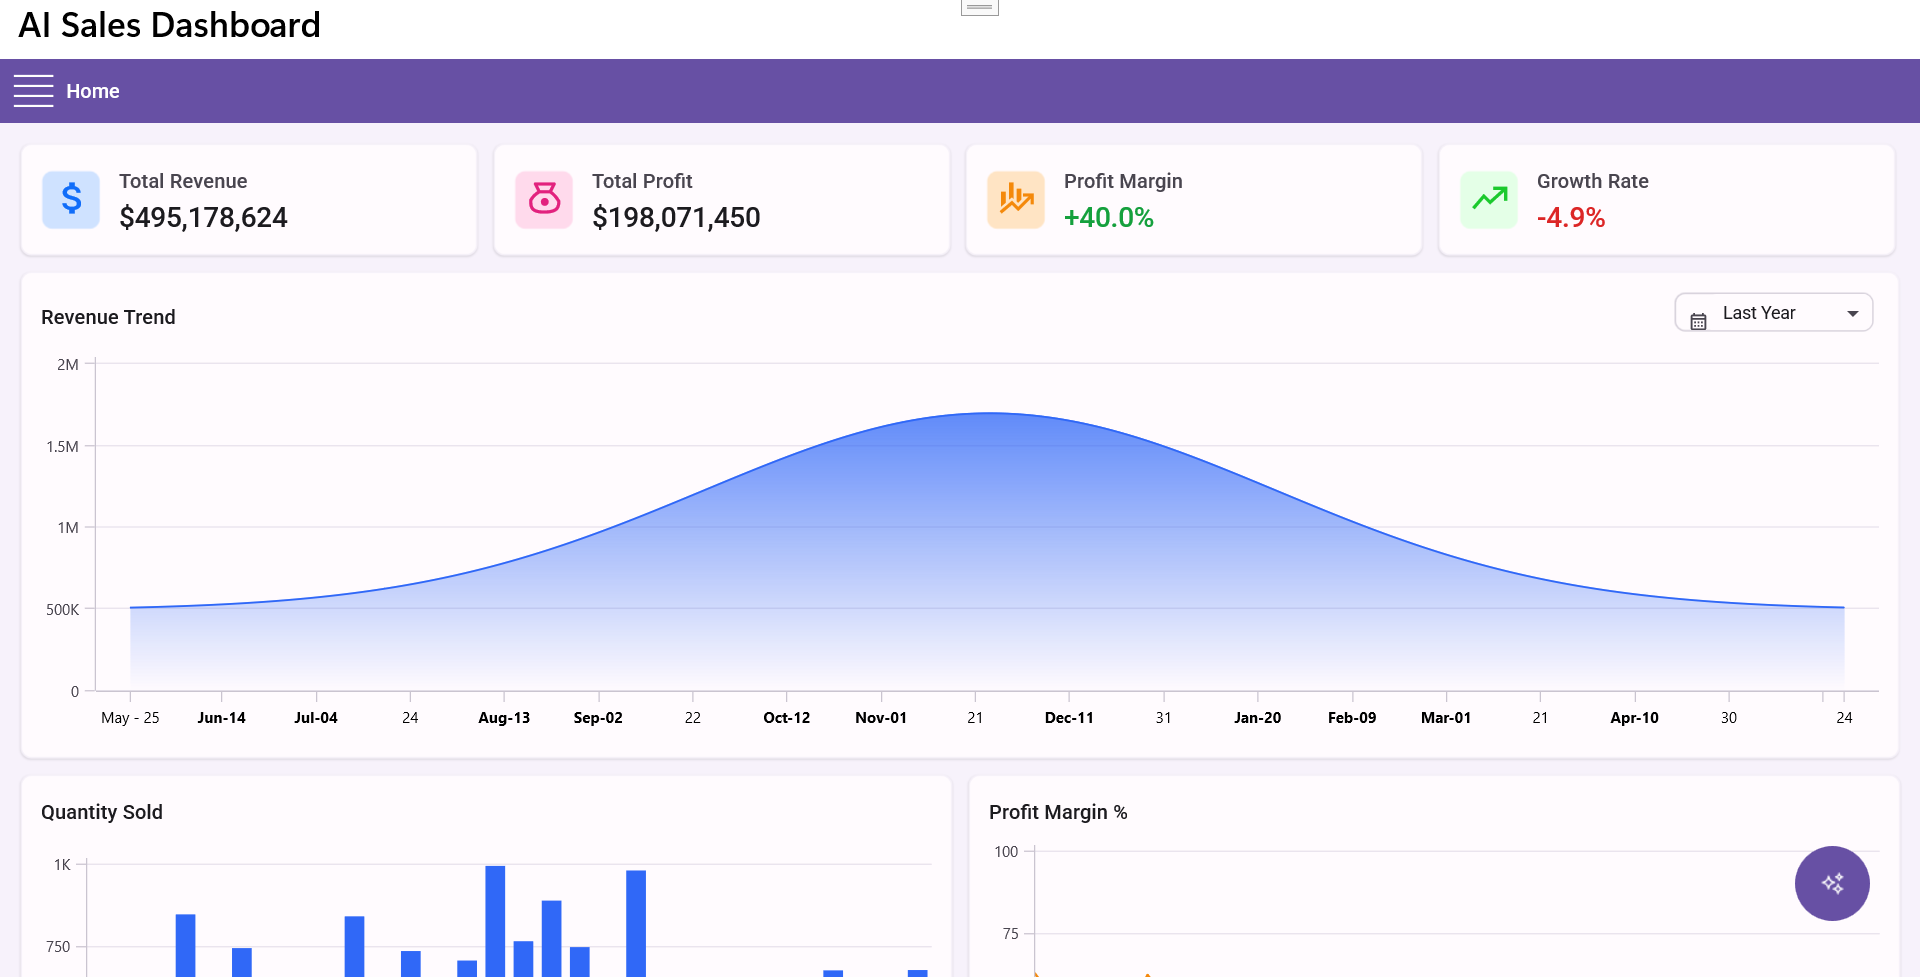
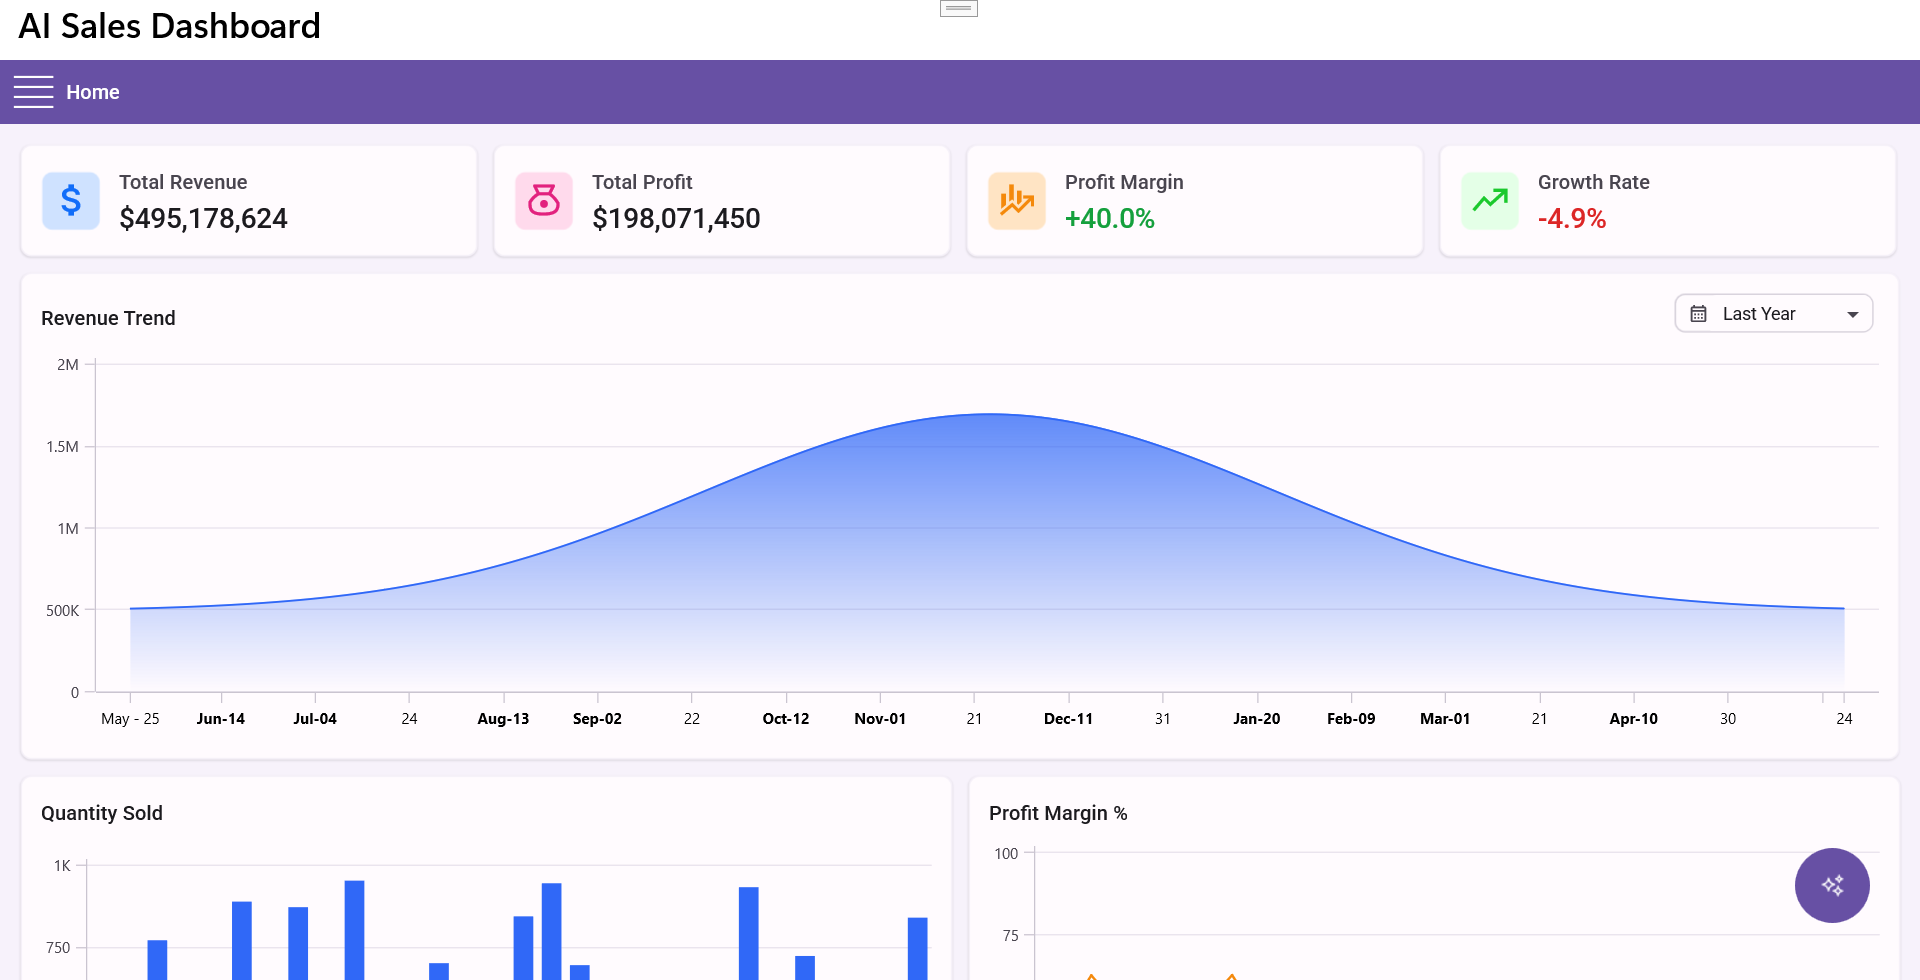
update

diff --git a/AISalesDashboard/AISalesDashboard/Views/CustomViews/AverageConfidence.xaml b/AISalesDashboard/AISalesDashboard/Views/CustomViews/AverageConfidence.xaml
@@ -6,7 +6,7 @@
              x:Class="AISalesDashboard.AverageConfidence">
 
     <Grid ColumnDefinitions="{OnPlatform WinUI='4*,6*', MacCatalyst='3*,7*'}" RowDefinitions="{OnPlatform Android='2*, 8*', iOS='2*,8*'}">
-        <Label Text="Average Confidence" FontSize="16" VerticalOptions="Center" FontFamily="RobotoMedium" TextColor="{OnPlatform Default={AppThemeBinding Light={StaticResource SalesDemoHeaderLabelTextColor}, Dark={StaticResource SalesDemoHeaderLabelTextColorDark}}, Android={AppThemeBinding Light={StaticResource SalesDemoContentLabelTextColor}, Dark={StaticResource SalesDemoContentLabelTextColorDark}}, iOS={AppThemeBinding Light={StaticResource SalesDemoHeaderLabelTextColor}, Dark={StaticResource SalesDemoHeaderLabelTextColorDark}}}" LineHeight="1.5" CharacterSpacing="0.15" HeightRequest="24" Margin="{OnPlatform Android='12,12,0,16', iOS='12,12,0,16'}"/>
+        <Label Text="Average Confidence" FontSize="16" VerticalOptions="Center" FontFamily="RobotoMedium" TextColor="{OnPlatform Default={AppThemeBinding Light={StaticResource SalesDemoHeaderLabelTextColor}, Dark={StaticResource SalesDemoHeaderLabelTextColorDark}}, Android={AppThemeBinding Light={StaticResource SalesDemoContentLabelTextColor}, Dark={StaticResource SalesDemoContentLabelTextColorDark}}, iOS={AppThemeBinding Light={StaticResource SalesDemoHeaderLabelTextColor}, Dark={StaticResource SalesDemoHeaderLabelTextColorDark}}}" LineHeight="1.5" CharacterSpacing="0.15" HeightRequest="28" Margin="{OnPlatform Android='12,12,0,16', iOS='12,12,0,16'}"/>
         <gauges:SfRadialGauge HeightRequest="{OnPlatform Default=104, Android=153, iOS=153}" WidthRequest="{OnPlatform Default=104, Android=153, iOS=153}" Background="Transparent" Grid.Column="{OnPlatform WinUI=1, MacCatalyst=1}" Grid.Row="{OnPlatform Android=1, iOS=1}" Margin="0,-10,0,0" HorizontalOptions="{OnPlatform Default=Start, Android=Center, iOS=Center}" x:DataType="local:PredictionViewModel">
             <gauges:SfRadialGauge.Axes>
                 <gauges:RadialAxis Minimum="0" Maximum="100" ShowLabels="False" ShowTicks="False" RadiusFactor="0.9">

diff --git a/AISalesDashboard/AISalesDashboard/Views/CustomViews/RevenueTrendChart.xaml b/AISalesDashboard/AISalesDashboard/Views/CustomViews/RevenueTrendChart.xaml
@@ -23,7 +23,7 @@
                     Margin="{OnPlatform Default='0,16,20,0', Android='0,12,12,0', iOS='0,12,12,0'}" HorizontalOptions="End">
                 <HorizontalStackLayout Margin="{OnPlatform Default='10,-10,5,0', Android='10,-5,0,0', iOS='10,-5,0,0', MacCatalyst='10,-20,0,0'}">
                     <Label Text="&#xe757;" FontSize="17" FontFamily="MauiSampleFontIcon" TextColor="{AppThemeBinding Light={StaticResource SalesDemoHeaderLabelTextColor}, Dark={StaticResource SalesDemoHeaderLabelTextColorDark}}"
-                           VerticalOptions="Center" Margin="{OnPlatform Default='0,17,0,0', Android='0,7,0,0', iOS='0'}"
+                           VerticalOptions="Center" Margin="{OnPlatform Default='0,7,0,0', Android='0,7,0,0', iOS='0',MacCatalyst='0,10,0,0'}"
                            LineHeight="1.5" CharacterSpacing="0.15" HeightRequest="24"/>
                     <comboBox:SfComboBox Margin="{OnPlatform Default='0,10,0,0', Android='0,7,10,0', MacCatalyst='0,5,0,-15'}"
                                          x:Name="PeriodSelection" ItemsSource="{Binding DateRanges}" DisplayMemberPath="DisplayText"